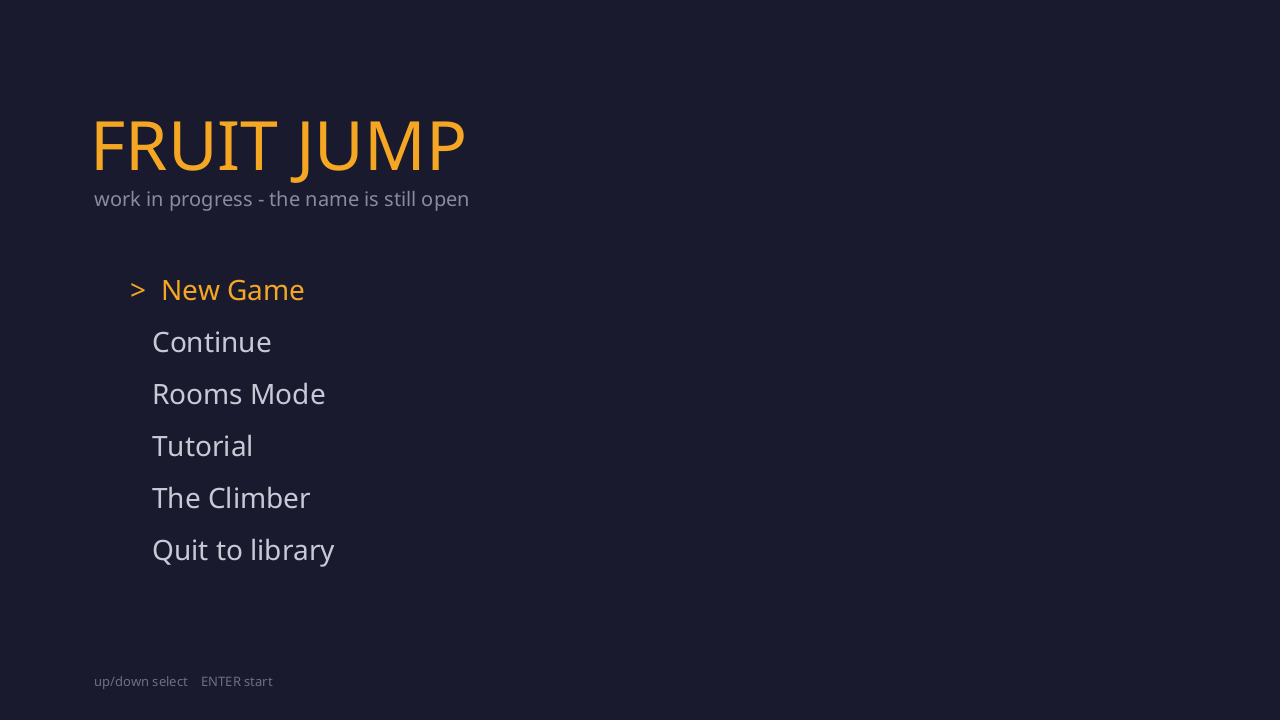
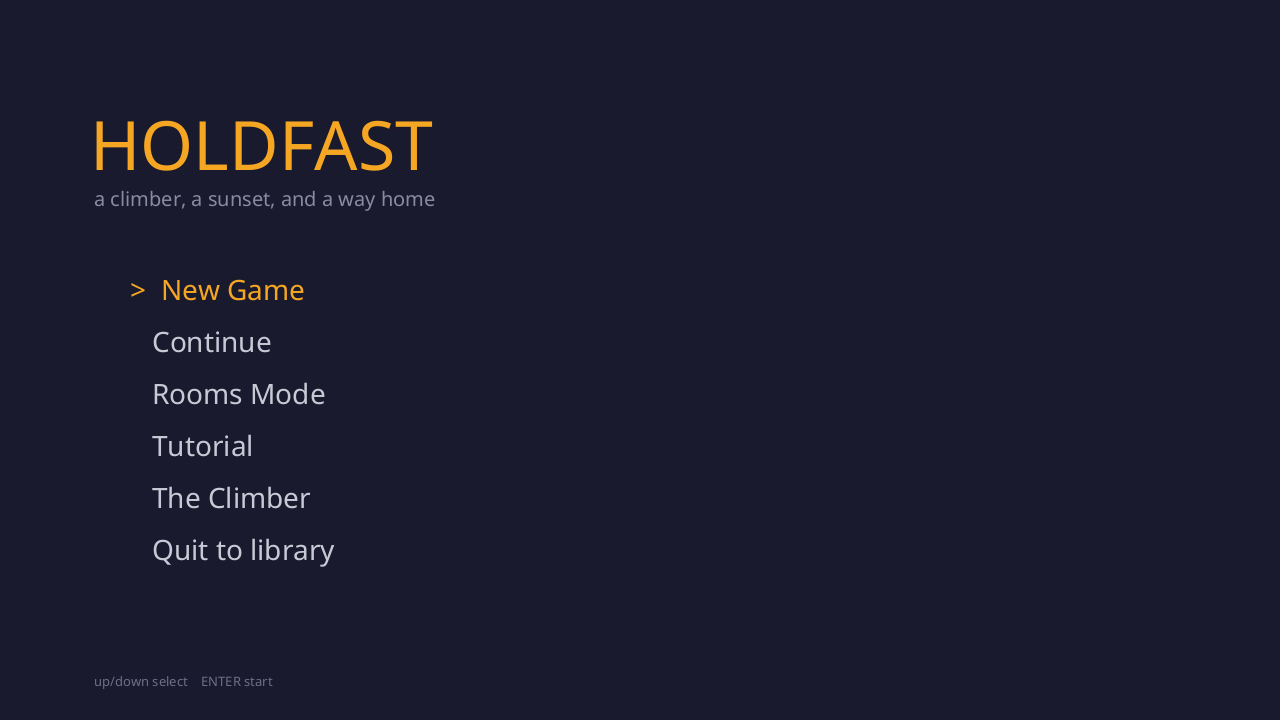
The platformer has a name: Holdfast
Kinger said on Sept 28 that this game "is its own thing and still needs a real name", and that the name was
mine to give rather than his. It has been "Fruit Jump" - a working title - for six days, and the subtitle said
so on the title screen. It is settled.

HOLDFAST. A holdfast is the root-like base a seaweed grips rock with, and "hold fast" is what a climber does.
The game is a climber with a hookshot in a world where water keeps arriving, so the word carries both halves of
it, and it is the kind of title a platformer can wear without explaining itself.

WHAT I DID NOT DO, and this is the interesting part. I drafted a new premise - "a climber, a hookshot, and
rising water" - and then read the blurb that was already there:

    A climber, a sunset, and a way home. Still needs a real name.

The first sentence is better than mine and it is the voice this game has. So the premise is unchanged and the
subtitle borrows that sentence instead of competing with it, and only the clause that had become untrue - "still
needs a real name" - came out.

AND THE COMMENT THAT SAID THE TITLE LIVED "HERE AND NOWHERE ELSE" WAS NOT TRUE. The library shelf has its own
name in FruitJumpGame.title(), so the rename is two places rather than one, and the claim is corrected rather
than left to mislead the next person. The class name, the package and the save file still say fruitjump: those
[…]

Changed region(s): [[0.0625, 0.1528, 0.375, 0.3056]]

diff --git a/src/main/java/aside/games/fruitjump/MainMenu.java b/src/main/java/aside/games/fruitjump/MainMenu.java
@@ -32,15 +32,27 @@ public class MainMenu extends UiScreen {
     static final Font F_TINY = Font.font("Arial", 13);
 
     /**
-     * THE TITLE LIVES HERE AND NOWHERE ELSE.
+     * THE TITLE ON THE TITLE SCREEN. It is NOT the only place the name lives - the library shelf has its own
+     * in FruitJumpGame.title(), and this comment claimed "and nowhere else" for a day, which was not true.
      *
-     * It said "TROPICAL PUNCH" - the wrong name, belonging to a different and
-     * as-yet-unbuilt game. This game is its own thing and still needs a real
-     * name (Kinger, Sept 28). Until then "Fruit Jump" is the working title,
-     * and renaming the title screen is this one constant.
+     * It said "TROPICAL PUNCH" - the wrong name, belonging to a different and as-yet-unbuilt game. Then it was
+     * "Fruit Jump", a working title with a note from Kinger (Sept 28) that the game "is its own thing and still
+     * needs a real name", and that the name was mine to give rather than his.
+     *
+     * HOLDFAST, chosen 2026-10-04. A holdfast is the root-like base a seaweed grips rock with, and "hold fast"
+     * is what a climber does - which is the whole game: a climber, a hookshot, and water that keeps arriving.
+     * The word is the two halves of this thing in one, and it is the kind of title a platformer can carry
+     * without explaining itself.
+     *
+     * The old note said renaming the title screen is this one constant, and that is still true - if this is
+     * wrong, it is wrong in one place.
      */
-    static final String TITLE = "FRUIT JUMP";
-    static final String SUBTITLE = "work in progress - the name is still open";
+    static final String TITLE = "HOLDFAST";
+    // The subtitle is the game's own sentence, and it was already written - in the library blurb, which said
+    // "A climber, a sunset, and a way home. Still needs a real name." I nearly invented a second premise
+    // ("a climber, a hookshot, and rising water") before reading it. The existing one is better and it is the
+    // voice this game has, so the title screen borrows it rather than competing with it.
+    static final String SUBTITLE = "a climber, a sunset, and a way home";
 
     final List<String> items = new ArrayList<>();
     int index = 0;

diff --git a/src/main/java/aside/games/fruitjump/FruitJumpGame.java b/src/main/java/aside/games/fruitjump/FruitJumpGame.java
@@ -17,10 +17,17 @@ public class FruitJumpGame implements Game {
 
     @Override public String id() { return "fruitjump"; }
 
-    @Override public String title() { return "Fruit Jump"; }
+        // THE LIBRARY SHELF NAME, which is a SECOND place the display name lives - MainMenu.TITLE is the first, and
+    // its comment used to claim the title was "here and nowhere else", which was not true. Both say Holdfast.
+    //
+    // The class name, the package and the save file keep saying "fruitjump". Those are identifiers rather than
+    // display: renaming them touches every import and every save path for no gain a player can see.
+    @Override public String title() { return "Holdfast"; }
 
     @Override public String blurb() {
-        return "A climber, a sunset, and a way home. Still needs a real name.";
+        // "Still needs a real name" was true until 2026-10-04 and is not any more. The first sentence stays
+        // exactly as it was: it is the premise, and it was already right.
+        return "A climber, a sunset, and a way home.";
     }
 
     @Override

diff --git a/README.md b/README.md
@@ -95,7 +95,9 @@ There are four families:
 - **Five stories** — `overtime`, `the-lamp-room`, `the-discrepancy`, `the-water-line`, and `night-shift` (a
   test fixture). Four of them are stories you can play; each has its own register and its own art, and each is
   audited rather than asserted. See "What is in here" below.
-- **Fruit Jump** — the platformer, and the oldest thing here. It has water: pools
+- **Holdfast** — the platformer, and the oldest thing here. It was "Fruit Jump" as a working title until
+  2026-10-04; the name is settled now, and the premise it already had is the one it keeps: *a climber, a sunset,
+  and a way home.* It has water: pools
   form in the gaps in the walk, a body swims in them, holds its breath, and gets
   out by a breach hop at the surface. **UP or W** jumps on land and strokes
   upward in water; **DOWN or S** dives.
@@ -212,7 +214,8 @@ takes one suite as an argument. They also report in four different shapes (`791/
 no total could be printed. The runner reads all four.
 
 **`tools/release-status.sh` asks whether a player would notice.** Not "is main ahead" - that is a different
-question with a different answer. Fruit-Jump and wake were each dozens of commits ahead of their releases on
+question with a different answer. The Holdfast repository (still `ChasePlank/Fruit-Jump`, named for the working
+title) and wake were each dozens of commits ahead of their releases on
 2026-10-03 and needed nothing, because every one of those commits was documentation or tooling and the source a
 player downloads had not moved. Each repository declares what a player actually gets (`web/aside.html`,
 `src/main/java` and the jar, `index.html`) and this compares **that** range. `TAG=` overrides the release, which
